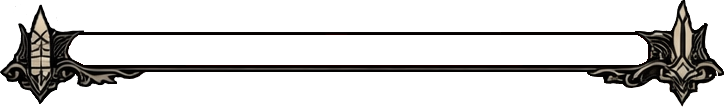
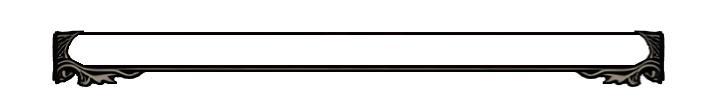
Remove temp assets.

Changed region(s): [[0.7901, 0.0, 1.0, 0.9813], [0.0, 0.0561, 0.0912, 0.9533]]

diff --git a/src/utilities/display_utility.c b/src/utilities/display_utility.c
@@ -13,9 +13,9 @@ static int fadeBlackAlpha = 255; // Default alpha value for the rectangle
 bool startScreenFade = false;
 static sprite_t* bossHealthBarBackgroundSprite = NULL;
 static bool bossHealthBarBackgroundLoadAttempted = false;
-static sprite_t* playerShieldHealthSprites[5] = { NULL, NULL, NULL, NULL, NULL };
-static bool playerShieldHealthSpritesLoadAttempted = false;
-static float playerShieldDeathAnimTime = 0.0f;
+//static sprite_t* playerShieldHealthSprites[5] = { NULL, NULL, NULL, NULL, NULL };
+//static bool playerShieldHealthSpritesLoadAttempted = false;
+//static float playerShieldDeathAnimTime = 0.0f;
 
 // UI intro progress values (0.0 = off-screen, 1.0 = fully visible)
 static float boss_ui_intro = 1.0f;
@@ -145,6 +145,71 @@ void draw_boss_health_bar(const char *name, float ratio, float flash)
 
 void draw_player_health_bar(const char *name, float ratio, float flash)
 {
+    (void)name;
+
+    if (ratio < 0.0f) ratio = 0.0f;
+    if (ratio > 1.0f) ratio = 1.0f;
+    if (flash < 0.0f) flash = 0.0f;
+    if (flash > 1.0f) flash = 1.0f;
+
+    rdpq_sync_pipe();
+    rdpq_set_mode_standard();
+
+#ifdef RDPQ_FOG_DISABLED
+    rdpq_mode_fog(RDPQ_FOG_DISABLED);
+#else
+    rdpq_mode_fog(0);
+#endif
+
+    rdpq_mode_combiner(RDPQ_COMBINER_FLAT);
+    rdpq_mode_blender(RDPQ_BLENDER_MULTIPLY);
+
+    const int marginX = ui_safe_margin_x();
+    const int marginY = ui_safe_margin_y();
+
+    const int barWidth = 120;
+    const int barHeight = 10;
+
+    float p = player_ui_intro;
+    int slideDistBottom = 40;
+    int yOffset = (int)((1.0f - p) * (float)slideDistBottom);
+
+    int left = marginX + 12;
+    int bottom = SCREEN_HEIGHT - marginY - 14 + yOffset;
+    int top = bottom - barHeight;
+    int right = left + barWidth;
+
+    // Background
+    rdpq_set_prim_color(RGBA32(35, 35, 35, 160));
+    rdpq_fill_rectangle(left, top, right, bottom);
+
+    // Optional darker inner border/empty region
+    rdpq_set_prim_color(RGBA32(10, 10, 10, 190));
+    rdpq_fill_rectangle(left + 1, top + 1, right - 1, bottom - 1);
+
+    // Health fill
+    int red = 200 + (int)(55.0f * flash);
+    int green = 35 + (int)(45.0f * flash);
+    int blue = 35 + (int)(45.0f * flash);
+
+    int fillRight = left + 2 + (int)((barWidth - 4) * ratio);
+
+    if (fillRight > left + 2) {
+        rdpq_set_prim_color(RGBA32(red, green, blue, 220));
+        rdpq_fill_rectangle(left + 2, top + 2, fillRight, bottom - 2);
+    }
+
+    // Light frame
+    rdpq_set_prim_color(RGBA32(210, 210, 210, 180));
+    rdpq_fill_rectangle(left, top, right, top + 1);
+    rdpq_fill_rectangle(left, bottom - 1, right, bottom);
+    rdpq_fill_rectangle(left, top, left + 1, bottom);
+    rdpq_fill_rectangle(right - 1, top, right, bottom);
+}
+
+//Shield version
+/*void draw_player_health_bar(const char *name, float ratio, float flash)
+{
 	(void)name;
 
 	// Clamp ratio
@@ -249,7 +314,7 @@ void draw_player_health_bar(const char *name, float ratio, float flash)
 		.scale_x = scale,
 		.scale_y = scale,
 	});
-}
+}*/
 
 void display_manager_draw_rectangle(int x, int y, int width, int height, color_t color)
 {
